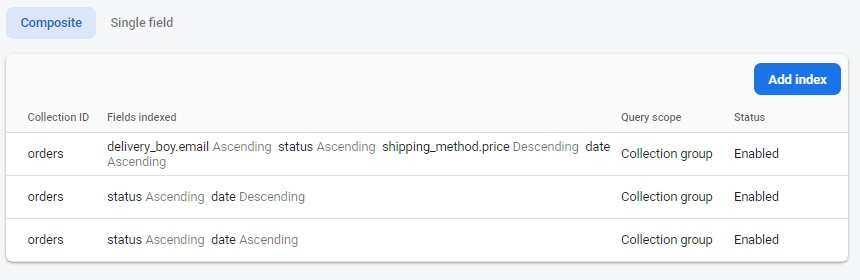
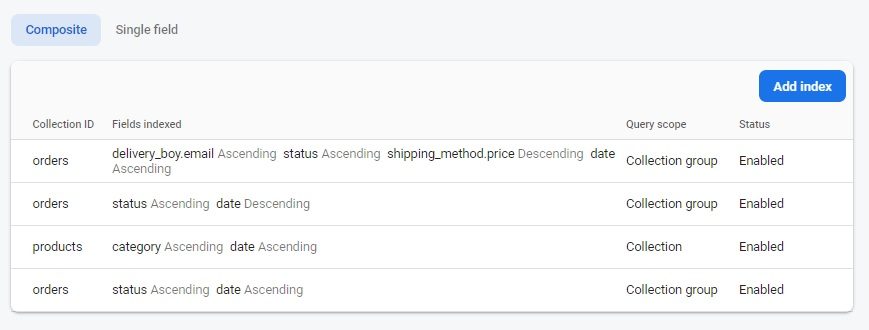
Posting v1.5 release notes and some documentation changes.

diff --git a/content/docs/overview/pubspec.md b/content/docs/overview/pubspec.md
@@ -17,11 +17,12 @@ toc: true
 ```
 name: grocery
 description: A new Flutter project.
-publish_to: 'none'
-version: 1.4.0
+# pub.dev using `pub publish`. This is preferred for private packages.
+publish_to: 'none' # Remove this line if you wish to publish to pub.dev
+version: 1.5.0
 
 environment:
-  sdk: ">=2.7.0 <3.0.0"
+  sdk: ">=2.12.0 <3.0.0"
 
 dependencies:
   flutter:
@@ -31,61 +32,45 @@ dependencies:
   # Use with the CupertinoIcons class for iOS style icons.
   cupertino_icons: ^1.0.2
   #Splash Screen
-  flutter_native_splash: ^0.2.7
+  flutter_native_splash: ^1.2.0
   # State Management and Streams manipulations
   provider: ^5.0.0
-  rxdart: ^0.26.0
+  rxdart: ^0.27.1
   # Local Storage: For dark mode, onBoarding Screen...
-  shared_preferences: ^2.0.5
+  shared_preferences: ^2.0.6
   #Firebase
-  firebase_core: ^1.0.3
+  firebase_core: ^1.3.0
   #Firebase Login
-  firebase_auth: ^1.0.2
-  google_sign_in: ^5.0.1
-  flutter_facebook_login: ^3.0.0
+  firebase_auth: ^1.4.1
+  google_sign_in: ^5.0.4
+  flutter_facebook_auth: ^3.4.1
   # Show svg images
-  flutter_svg: ^0.19.3
+  flutter_svg: ^0.22.0
   #Firebase database
-  cloud_firestore: ^1.0.4
+  cloud_firestore: ^2.2.2
   #Firebase messaging:  for notifications
-  firebase_messaging: ^9.1.1
+  firebase_messaging: ^10.0.2
   #Numbers manipulation
-  decimal: ^1.0.0+1
-  #UIs
-  circular_check_box: ^1.0.4
-  fluttertoast: ^8.0.3
-  flutter_country_picker: ^0.1.6
-  font_awesome_flutter: ^9.0.0
+  decimal: ^1.2.0
+  fluttertoast: ^8.0.7
+  country_code_picker : ^2.0.2
+  font_awesome_flutter: ^9.1.0
   #Image picker
-  file_picker: ^3.0.1
+  file_picker: ^3.0.2+2
   #Firebase storage
-  firebase_storage: ^8.0.2
+  firebase_storage: ^8.1.3
   #Notification
-  flutter_local_notifications: ^5.0.0+1
+  flutter_local_notifications: ^6.0.0
   #Http plugin for notifications and payment
-  http: ^0.13.1
+  http: ^0.13.3
   #Stripe for credit card payment
-  stripe_payment: ^1.0.11
+  stripe_payment: ^1.1.1
   #Image resizer to reduce upload size
   flutter_native_image: ^0.0.6
 
 dev_dependencies:
   flutter_test:
     sdk: flutter
-
-flutter:
-
-  fonts:
-    - family: Roboto
-      fonts:
-        - asset: fonts/RobotoRegular.ttf
-        - asset: fonts/RobotoLight.ttf
-          weight: 300
-        - asset: fonts/RobotoMedium.ttf
-          weight: 500
-        - asset: fonts/RobotoBold.ttf
-          weight: 700
-
   uses-material-design: true
   assets:
     - images/logo.png
@@ -110,50 +95,49 @@ flutter:
 ```
 name: grocery_admin
 description: A new Flutter project.
-publish_to: 'none'
-version: 1.4.0
-
+# pub.dev using `pub publish`. This is preferred for private packages.
+publish_to: 'none' # Remove this line if you wish to publish to pub.dev
+version: 1.5.0
 environment:
-  sdk: ">=2.7.0 <3.0.0"
+  sdk: ">=2.12.0 <3.0.0"
 dependencies:
   flutter:
     sdk: flutter
-
   # The following adds the Cupertino Icons font to your application.
   # Use with the CupertinoIcons class for iOS style icons.
-  cupertino_icons: ^1.0.2
+  cupertino_icons: ^1.0.3
   #Font awesome icons
-  font_awesome_flutter: ^9.0.0
+  font_awesome_flutter: ^9.1.0
   #Splash Screen
-  flutter_native_splash: ^1.1.7+1
+  flutter_native_splash: ^1.2.0
   #Flutter Slidable widget
   flutter_slidable: ^0.6.0
   #Firebase
-  firebase_core: ^1.0.3
+  firebase_core: ^1.3.0
   #Firebase login
-  firebase_auth: ^1.0.2
+  firebase_auth: ^1.4.1
   #Firebase Database
-  cloud_firestore: ^1.0.4
+  cloud_firestore: ^2.2.2
   #Firebase storage
-  firebase_storage: ^8.0.2
+  firebase_storage: ^8.1.3
   #Firebase messaging:  for notifications
-  firebase_messaging: ^9.1.4
+  firebase_messaging: ^10.0.2
   #image picker
-  file_picker: ^3.0.1
+  file_picker: ^3.0.2+2
   # State Management and Streams manipulations
   provider: ^5.0.0
-  rxdart: ^0.26.0
+  rxdart: ^0.27.1
   # Local Storage: For dark mode
-  shared_preferences: ^2.0.5
+  shared_preferences: ^2.0.6
   #Show svg images
-  flutter_svg: ^0.21.0+1
+  flutter_svg: ^0.22.0
   #Notification
-  flutter_local_notifications: ^5.0.0+1
-  url_launcher: ^6.0.3
+  flutter_local_notifications: ^6.0.0
+  url_launcher: ^6.0.6
   #Flutter toast
-  fluttertoast: ^8.0.3
+  fluttertoast: ^8.0.7
   #Http plugin for notifications and payment
-  http: ^0.13.1
+  http: ^0.13.3
   #UIs
   numberpicker: ^2.1.1
   #Image resizer to reduce upload size
@@ -166,9 +150,8 @@ dependencies:
 dev_dependencies:
   flutter_test:
     sdk: flutter
-
 flutter:
-  uses-material-design: true
+
   assets:
     - images/empty_cart.svg
     - images/error.svg
@@ -191,46 +174,42 @@ flutter:
 ```
 name: delivery
 description: A new Flutter project.
-publish_to: 'none'
-version: 1.4.0
-
+version: 1.5.0
 environment:
-  sdk: ">=2.7.0 <3.0.0"
+  sdk: ">=2.12.0 <3.0.0"
+
 dependencies:
   flutter:
     sdk: flutter
-
-  # The following adds the Cupertino Icons font to your application.
-  # Use with the CupertinoIcons class for iOS style icons.
-  cupertino_icons: ^1.0.2
+  cupertino_icons: ^1.0.3
   #Splash Screen
-  flutter_native_splash: ^1.1.8+4
+  flutter_native_splash: ^1.2.0
   #Firebase
-  firebase_core: ^1.0.3
+  firebase_core: ^1.3.0
   #Firebase login
-  firebase_auth: ^1.0.2
+  firebase_auth: ^1.4.1
   #Firebase Database
-  cloud_firestore: ^1.0.4
+  cloud_firestore: ^2.2.2
   #Firebase storage
-  firebase_storage: ^8.0.2
+  firebase_storage: ^8.1.3
   #Firebase messaging:  for notifications
-  firebase_messaging: ^9.1.1
+  firebase_messaging: ^10.0.2
   # State Management and Streams manipulations
   provider: ^5.0.0
-  rxdart: ^0.26.0
+  rxdart: ^0.27.1
   # Local Storage: For dark mode
-  shared_preferences: ^2.0.5
+  shared_preferences: ^2.0.6
   #Show svg images
-  flutter_svg: ^0.21.0+1
+  flutter_svg: ^0.22.0
   #Notification
-  flutter_local_notifications: ^5.0.0+1
-  url_launcher: ^6.0.3
+  flutter_local_notifications: ^6.0.0
+  url_launcher: ^6.0.6
   #Flutter toast
-  fluttertoast: ^8.0.3
+  fluttertoast: ^8.0.7
   #image picker
-  file_picker: ^3.0.1
+  file_picker: ^3.0.2+2
   #Http plugin for notifications
-  http: ^0.13.1
+  http: ^0.13.3
   #Image resizer to reduce upload size
   flutter_native_image: ^0.0.6
   #Geocoding plugin to get location from address
@@ -241,7 +220,6 @@ dependencies:
 dev_dependencies:
   flutter_test:
     sdk: flutter
-
 flutter:
   uses-material-design: true
   assets:

diff --git a/content/docs/overview/introduction.md b/content/docs/overview/introduction.md
@@ -24,6 +24,6 @@ The admin can add/edit/remove products, shipping methods, and categories, manage
 Each delivery boy have a list of deliveries, he deliver/decline delivery and upload an image with comment, also he can view the address in map. For each completed/declined delivery, a new delivery history is added to the profile.
 
 ### Flutter version
-This project works with Flutter 2.0 (recommended version: 2.0.6 channel stable).
+This project works with Flutter 2.0 (recommended version: 2.2.2 channel stable).
 
 **Note:** This project no longer supports flutter 1.0 because of the new plugins version.

diff --git a/content/blog/v1.5-release.md b/content/blog/v1.5-release.md
@@ -1,0 +1,17 @@
+---
+title: "V1.5 release notes"
+date: 2021-06-26T00:16:42+01:00
+lastmod: 2021-06-26T00:16:42+01:00
+draft: false
+weight: 50
+images: ["say-hello-to-doks.png"]
+contributors: ["Omar Ouederni"]
+---
+
+**Note:**
+- We highly  recommend to update your previous code to this new version.
+- The recommended Flutter version is 2.2.2
+
+### Features added 
+- Null Safety support.
+- Big quality and performance updates.

diff --git a/content/docs/setup/cloud-firestore.md b/content/docs/setup/cloud-firestore.md
@@ -109,6 +109,7 @@ service cloud.firestore {
 ![image alt text](/images/firestore-rules.jpg)
 
 
+**Note:** in the video we made only 3 Firestore indexes. You have to add the fourth index (products) as you see in the picture.
 #### Video:
 
 {{< youtube 8CxLF1-g2tA >}}
